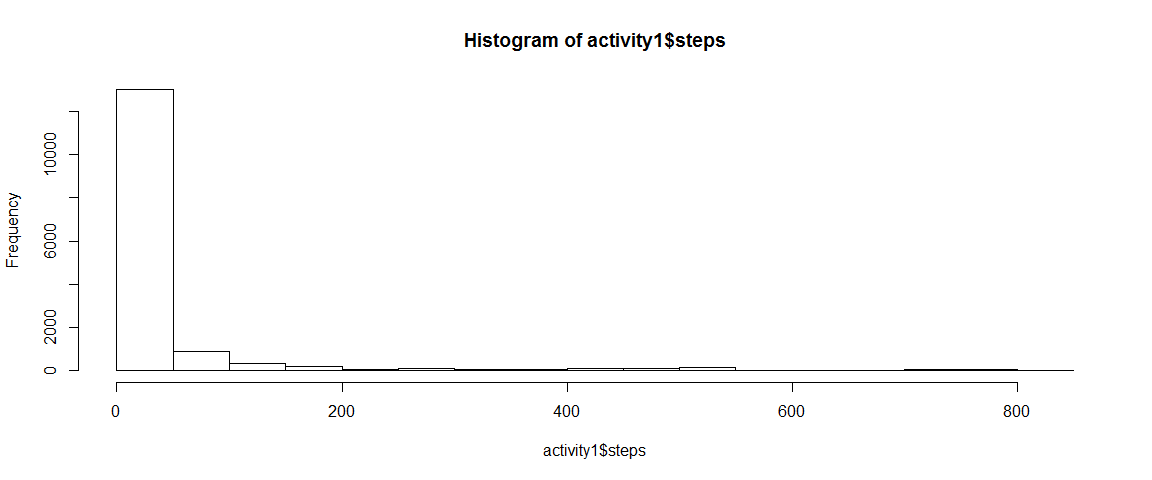
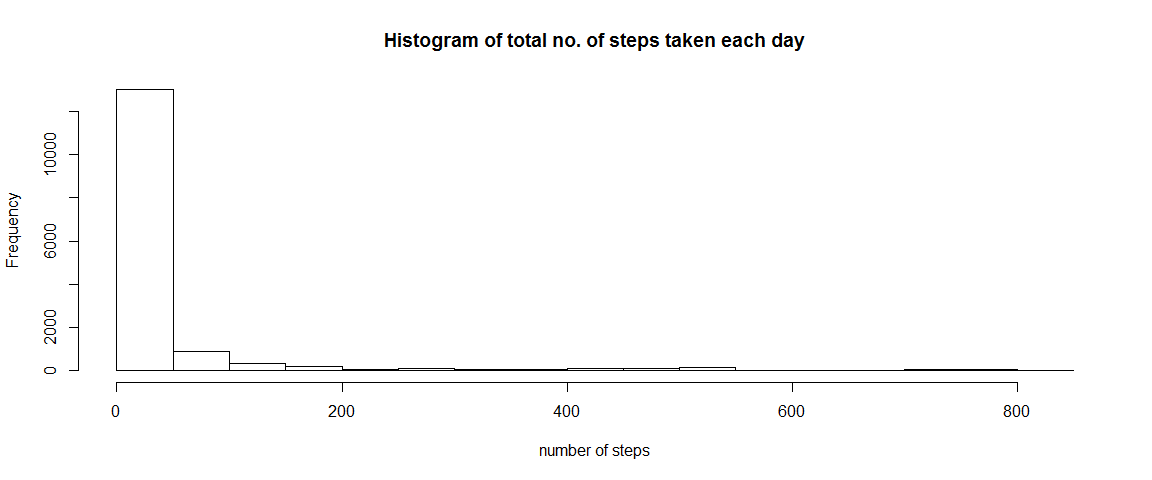
final assignment files and folders

Changed region(s): [[0.3125, 0.0625, 0.7188, 0.125], [0.4688, 0.9062, 0.5625, 0.9688]]

diff --git a/PA1_template.html b/PA1_template.html
@@ -114,8 +114,8 @@ totalStep</code></pre>
 <ol start="2" style="list-style-type: decimal">
 <li>Make a histogram of the total number of steps taken each day</li>
 </ol>
-<pre class="r"><code>hist(activity1$steps)</code></pre>
[1 lines of base64/hex data omitted]
+<pre class="r"><code>hist(activity1$steps, main=&quot;Histogram of total no. of steps taken each day&quot;, xlab=&quot;number of steps&quot;)</code></pre>
[1 lines of base64/hex data omitted]
 <ol start="3" style="list-style-type: decimal">
 <li>Calculate and report the mean and median of the total number of steps taken per day</li>
 </ol>
@@ -133,8 +133,8 @@ totalStep</code></pre>
 <pre class="r"><code>library(plyr)
 activity1 &lt;- mutate(activity1, hour=interval%/% 100, minute=interval%% 100)
 avSteps &lt;- ddply(activity1, .(minute), summarize, average=mean(steps))
-plot(avSteps$minute, avSteps$average, type=&quot;l&quot;)</code></pre>
[1 lines of base64/hex data omitted]
+plot(avSteps$minute, avSteps$average, type=&quot;l&quot;, main=&quot;Av. no. of steps (averaged across all days) taken by 5-minute interval&quot;, xlab=&quot;5-minute interval&quot;, ylab=&quot;average no. of steps taken&quot;)</code></pre>
[1 lines of base64/hex data omitted]
 <ol start="2" style="list-style-type: decimal">
 <li>Which 5-minute interval, on average across all the days in the dataset, contains the maximum number of steps?</li>
 </ol>
@@ -178,8 +178,8 @@ summary(activity2)</code></pre>
 <ol start="4" style="list-style-type: decimal">
 <li>Make a histogram of the total number of steps taken each day and Calculate and report the mean and median total number of steps taken per day. Do these values differ from the estimates from the first part of the assignment? What is the impact of imputing missing data on the estimates of the total daily number of steps?</li>
 </ol>
-<pre class="r"><code>hist(activity2$steps)</code></pre>
[1 lines of base64/hex data omitted]
+<pre class="r"><code>hist(activity2$steps, main=&quot;Histogram of total number of steps taken each day&quot;, xlab=&quot;number of steps&quot;)</code></pre>
[1 lines of base64/hex data omitted]
 <pre class="r"><code>mean(activity2$steps) # result 37.3826</code></pre>
 <pre><code>## [1] 37.3826</code></pre>
 <pre class="r"><code>median(activity2$steps) # result 0</code></pre>

diff --git a/PA1_template.md b/PA1_template.md
@@ -83,7 +83,7 @@ Result is 570,608 steps
 2. Make a histogram of the total number of steps taken each day
 
 ```r
-hist(activity1$steps)
+hist(activity1$steps, main="Histogram of total no. of steps taken each day", xlab="number of steps")
 ```
 
 ![](PA1_template_files/figure-html/unnamed-chunk-5-1.png) 
@@ -116,7 +116,7 @@ Mean = 37.3826 and Median = 0
 library(plyr)
 activity1 <- mutate(activity1, hour=interval%/% 100, minute=interval%% 100)
 avSteps <- ddply(activity1, .(minute), summarize, average=mean(steps))
-plot(avSteps$minute, avSteps$average, type="l")
+plot(avSteps$minute, avSteps$average, type="l", main="Av. no. of steps (averaged across all days) taken by 5-minute interval", xlab="5-minute interval", ylab="average no. of steps taken")
 ```
 
 ![](PA1_template_files/figure-html/unnamed-chunk-7-1.png) 
@@ -185,7 +185,7 @@ summary(activity2)
 
 
 ```r
-hist(activity2$steps)
+hist(activity2$steps, main="Histogram of total number of steps taken each day", xlab="number of steps")
 ```
 
 ![](PA1_template_files/figure-html/unnamed-chunk-11-1.png) 
